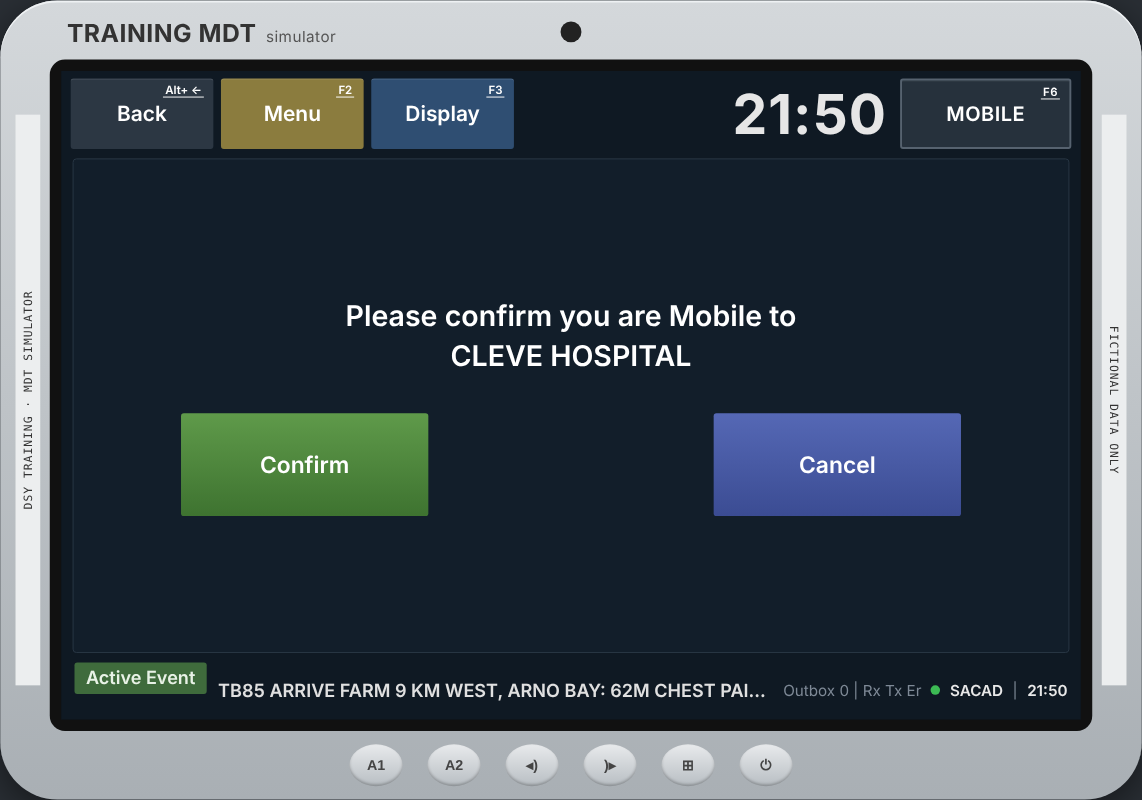
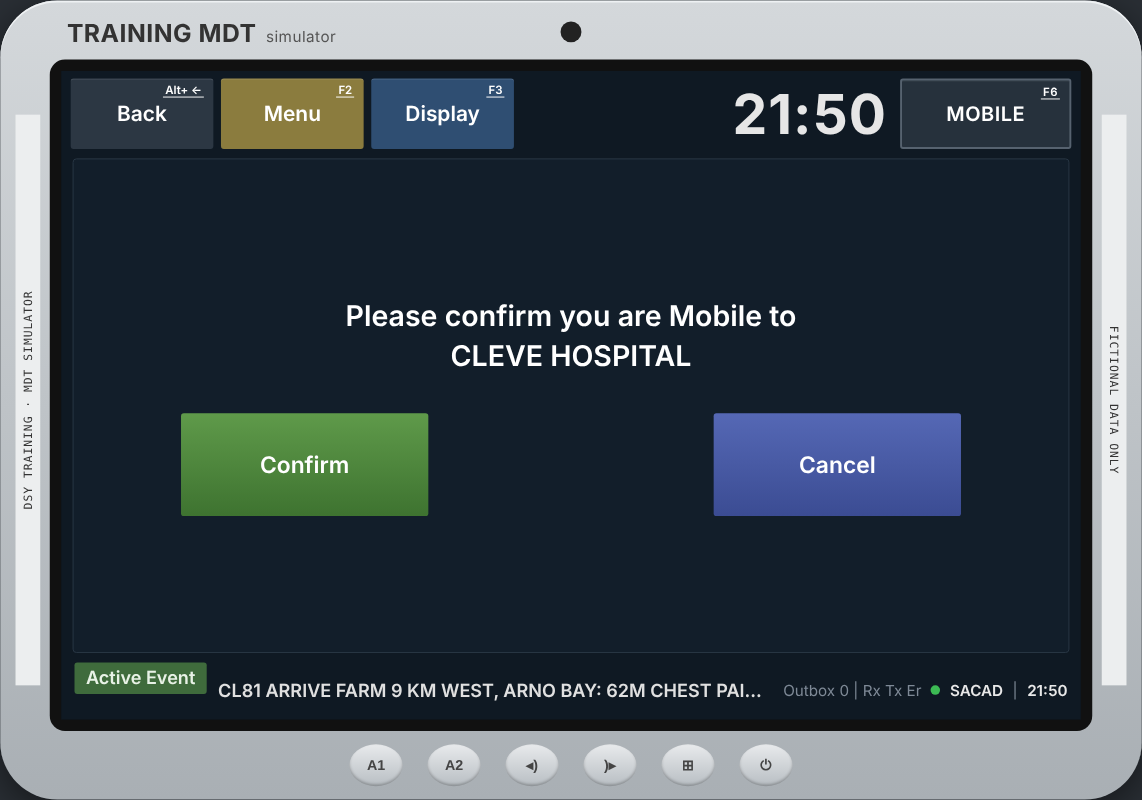
Chest pain case night: MDT screenshots show call sign CL81 (Cleve)
Claude-Session: https://claude.ai/code/session_01NsQZouMk9kUpGJUVX6yuzh

Changed region(s): [[0.1839, 0.8438, 0.6743, 0.875]]

diff --git a/classroom/chest-pain/tools/mdt-shots.js b/classroom/chest-pain/tools/mdt-shots.js
@@ -13,7 +13,7 @@ const OUT = path.join(__dirname, '..', 'img');
   await p.goto('http://localhost:8765/mdt/');
   await p.evaluate(() => {
     const c = jobConfig(JOBS.find(j => j.id === 'chest-pain'), example());
-    Object.assign(c, { logon: 'no', speed: '1', gps: 'off' });
+    Object.assign(c, { logon: 'no', speed: '1', gps: 'off', callsign: 'CL81' }); // CL81 = Cleve (owner, 11 Nov 2026)
     startSim(c);
   });
   const dev = p.locator('#device');
